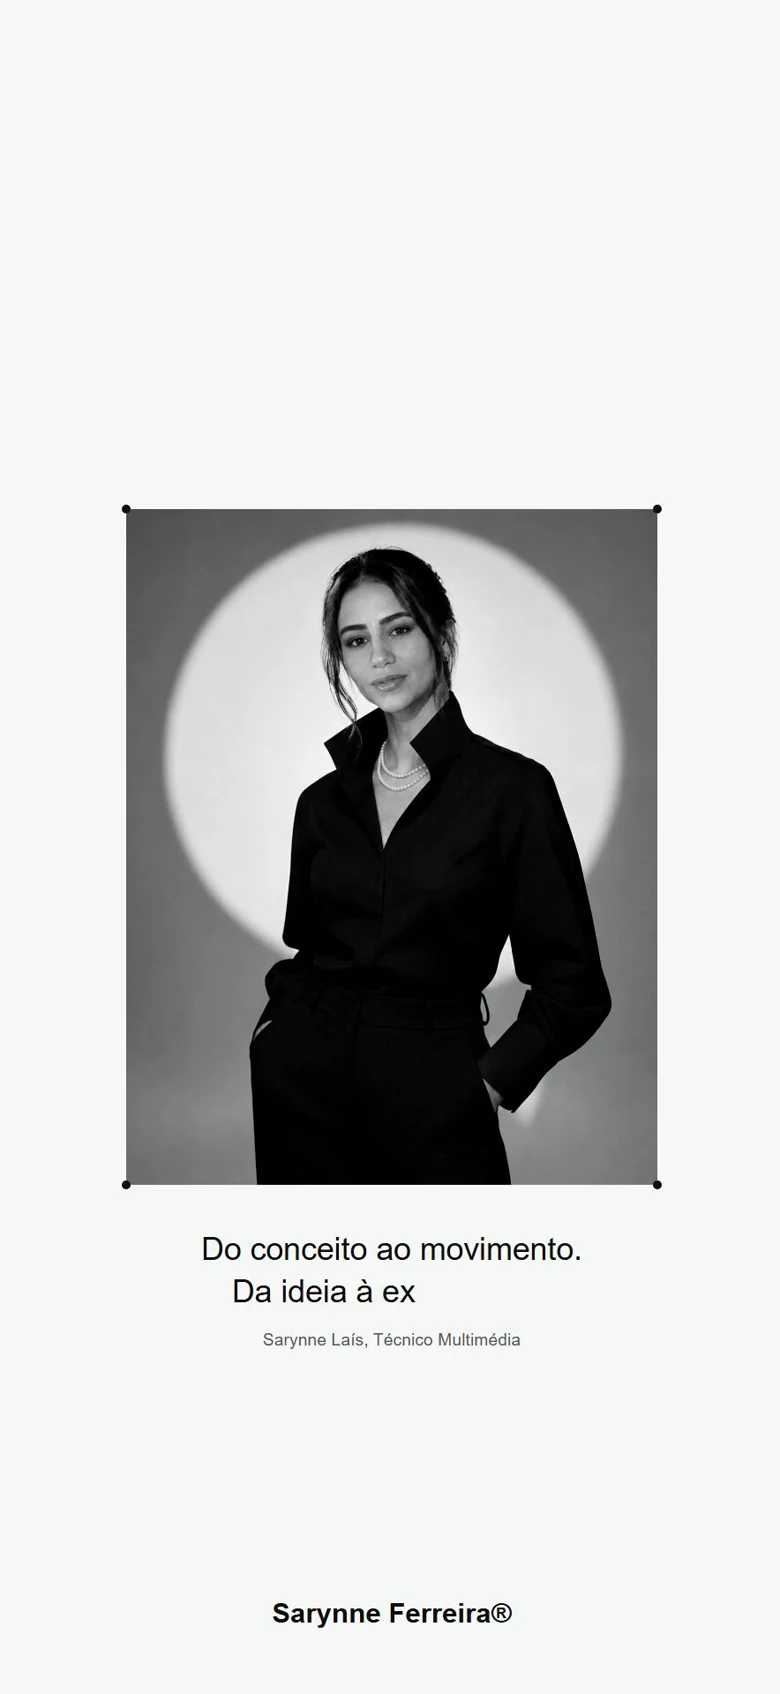
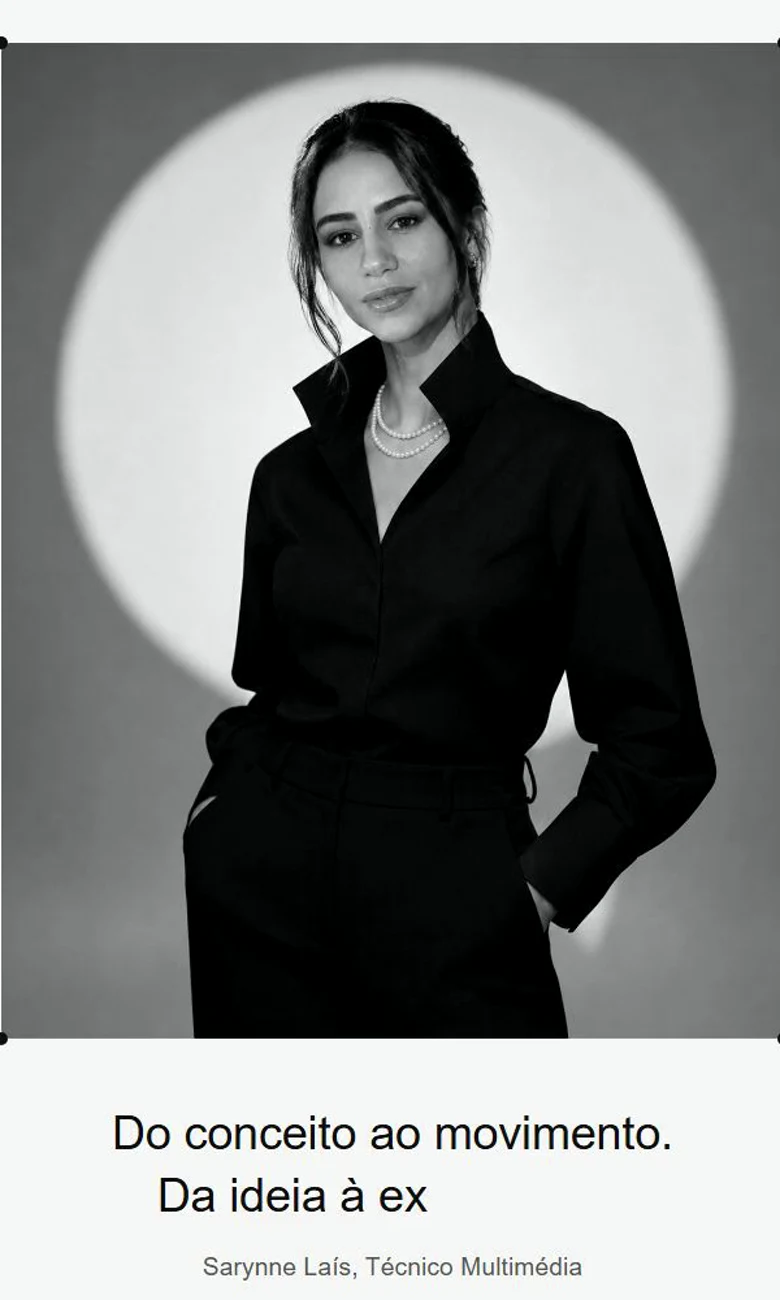
Frase dentro do baloico, Benessere fora e o reel recortado
🔴 O BALOICO volta a altura ORIGINAL, sem corte no topo. Andei a cortar
450px, depois 300, depois 200, a tentar que nao flutuasse — era o remedio
errado para a doenca certa. O que o fazia flutuar nao era a imagem, era a
FOLGA laranja por cima dela. As cordas chegam a primeira linha do ficheiro
(medido), por isso com a folga a zero sobem ate ao cimo da seccao sozinhas.
O unico corte que fica sao 66px EM BAIXO (1536 -> 1470), para tirar o
laranja chapado que sobrava debaixo da sombra. A sombra fica: vive entre os
83% e os 95% da altura (medido linha a linha contra a linha 0) e e o que
assenta o baloico no espaco.

A FRASE DO RAMS passou para DENTRO do baloico, no vao entre as cordas.
Mede-se que la cabe: acima das letras — que so comecam aos 49,5% da altura
— a imagem e laranja chapado, com 2% de tinta, que sao as duas cordas. A
frase fica dos 16% aos 36,4%, por isso nao lhes toca.
No telemovel sai de cima da imagem: a 390px a imagem tem 218px de altura e
a frase ia dos 19,8% aos 58,2%, entrando pelas letras adentro. Encolhe-la
ate caber dava 13px, que nao se le — por baixo le-se.

O texto da madeira acompanhou o novo enquadramento: face da frente em
69,39%-76,39%, centro a 72,89%. Medido na pagina depois: 72,89% exacto.

BENESSERE FORA. Ela pediu o Ondelle fora e continuou a ve-lo — era o
Benessere, que e o MESMO MOLDE, com a mesma fotografia do ADN. Saem os tres
da familia (Ondelle, Ondelle PT, Benessere), medidos em 175,7 / 175,7 /
[…]

diff --git a/src/components/Entrada.module.css b/src/components/Entrada.module.css
@@ -72,31 +72,38 @@
    * Cortar em cima sobe a prancha no quadro E as cordas continuam a chegar
    * à aresta — cortar em BAIXO teria feito o contrário, descê-la.
    *
-   * 🔴 O corte foi descendo a pedido dela: 450px → 300 → 200. A prancha
-   * passou de 48,3%–62,2% (450) para 54,5%–66,7% (300) e agora para
-   * 57,9%–69,2% (200). Sem corte nenhum estaria em 63,4%–73,2%, mas aí as
-   * cordas acabavam a meio do laranja e ele lia-se a flutuar — que foi o
-   * defeito de origem.
+   * 🔴 SEM CORTE NENHUM, e isso é o que estava certo desde o princípio.
+   *
+   * Andei a cortar o topo (450px → 300 → 200) a tentar que o baloiço não
+   * flutuasse. Era o remédio errado para a doença certa: o que o fazia
+   * flutuar não era a imagem, era a FOLGA laranja que estava por cima dela.
+   * As cordas chegam à primeira linha do ficheiro — medido — por isso basta
+   * a folga a zero (ver `.banda`) e elas sobem até ao cimo da secção
+   * sozinhas, com o baloiço na altura original.
+   *
+   * O único corte que ficou são 66px EM BAIXO (1536 → 1470), para tirar o
+   * laranja chapado que sobrava debaixo da sombra. A sombra em si fica: ela
+   * vive entre os 83% e os 95% da altura (medido comparando cada linha com
+   * a linha 0) e é o que assenta o baloiço no espaço.
    */
-  aspect-ratio: 2752 / 1336;
+  aspect-ratio: 2752 / 1470;
 }
 
 /*
  * O texto vai escrito na FACE LATERAL da prancha, a pedido dela — como a
  * referência o tem na viga.
  *
- * Medido na imagem JÁ CORTADA (2752×1336), linha a linha.
+ * Medido na imagem inteira (2752×1536), linha a linha.
  *
- * 🔴 A conta não pode ser «a prancha inteira»: ela vai de 57,9% a 69,2%,
- * mas a metade de cima é a face SUPERIOR, vista em perspetiva e meio tapada
- * pelas letras — ali a madeira só ocupa 17% a 55% da largura. Foi por isso
- * que o texto apareceu «fora da madeira»: eu centrava-o na prancha toda e
- * ele caía na aresta.
+ * 🔴 A conta não pode ser «a prancha inteira»: a metade de cima dela é a
+ * face SUPERIOR, vista em perspetiva e meio tapada pelas letras — ali a
+ * madeira só ocupa uma fração da largura. Foi por isso que o texto apareceu
+ * «fora da madeira»: eu centrava-o na prancha toda e ele caía na aresta.
  *
- * A face da FRENTE é onde a madeira fica larga e constante: y 864..925, ou
- * seja 64,7% a 69,2%, com 70% a 76% da largura. O centro dela está a 66,5%
- * — e é aí que o texto tem de cair. A caixa tem 4,2% de altura (a face tem
- * 4,5%), com o topo a 64,4%.
+ * A face da FRENTE é onde a madeira fica larga e constante: y 1020..1123.
+ * Na imagem com a base cortada (1470 de altura) isso dá 69,39% a 76,39%,
+ * com o centro a 72,89% — e é aí que o texto tem de cair. A caixa tem 4,2%
+ * de altura, com o topo a 70,79%.
  *
  * 🔴 A tinta é ESCURA e não branca. Medido o contraste contra a madeira
  * (média RGB 196,144,105): branco dá 2,79:1 e falha; a tinta da casa dá
@@ -105,7 +112,7 @@
  */
 .viga {
   position: absolute;
-  top: 64.4%;
+  top: 70.79%;
   left: 11%;
   width: 78%;
   height: 4.2%;
@@ -141,16 +148,38 @@
   flex-shrink: 0;
 }
 
+/*
+ * 🔴 O `padding-top` era clamp(1.25rem, 3vw, 2.5rem) e, com a frase do Rams
+ * a sair daqui para dentro do baloiço, ficava um rasgo de laranja vazio
+ * entre a imagem e «Onde o design encontra a tecnologia». Ela mandou subir
+ * o texto — daí o topo a zero e a sombra do baloiço a servir de respiração.
+ */
 .corpo {
-  padding-top: clamp(1.25rem, 3vw, 2.5rem);
+  padding-top: 0;
   padding-bottom: clamp(2.5rem, 6vw, 4.5rem);
   text-align: center;
 }
 
 /* A frase do Dieter Rams, em branco sobre o laranja — o que ela pediu. */
+/*
+ * A frase vive DENTRO do baloiço, no vão vazio entre as cordas.
+ *
+ * Os 16% saem da medição: acima das letras — que só começam aos 47,4% da
+ * altura — a imagem é laranja chapado, com 2% de tinta, que são as duas
+ * cordas. A caixa fica com 46rem de medida para não lhes ir por cima.
+ *
+ * ⚠ `pointer-events: none` porque isto está em cima da imagem: sem isso,
+ * selecionar texto aqui apanhava o baloiço por baixo.
+ */
 .citacao {
-  margin: 0 auto;
-  max-width: 46rem;
+  position: absolute;
+  top: 16%;
+  left: 50%;
+  transform: translateX(-50%);
+  width: min(46rem, 62%);
+  margin: 0;
+  text-align: center;
+  pointer-events: none;
 }
 
 .citacao p {
@@ -248,6 +277,16 @@
  * disciplinas saem de lá e passam a ler-se por baixo do baloiço, antes da
  * citação. Escondê-las perdia conteúdo; encolhê-las mais tornava-as ilegíveis.
  */
+/*
+ * Num telemóvel a prancha fica fina de mais para levar texto legível, e o
+ * vão livre do baloiço fica curto de mais para a frase. Os dois saem de
+ * cima da imagem e passam para debaixo dela.
+ *
+ * 🔴 Medido: a 390px a imagem tem 218px de altura e as letras do PORTFOLIO
+ * começam aos 47,4% (103px). A frase, em cima da imagem, ia dos 19,8% aos
+ * 58,2% — entrava pelas letras adentro. Encolhê-la até caber dava 13px, que
+ * não se lê. Por baixo lê-se.
+ */
 @media (max-width: 48rem) {
   .viga {
     position: static;
@@ -257,5 +296,15 @@
     font-size: 0.6rem;
     padding: clamp(0.9rem, 3vw, 1.25rem) var(--gutter) 0;
     white-space: normal;
+  }
+
+  .citacao {
+    position: static;
+    width: auto;
+    max-width: 30rem;
+    margin: clamp(1.25rem, 5vw, 2rem) auto 0;
+    padding-inline: var(--gutter);
+    transform: none;
+    pointer-events: auto;
   }
 }

diff --git a/src/components/PulseArco.tsx b/src/components/PulseArco.tsx
@@ -132,8 +132,12 @@ const ecransPulse: Cartao[] = (pulse.gallery ?? []).map((g) => ({
  *
  * Em vez disso vai um fotograma com imagem, tirado do próprio vídeo aos
  * 9,0s — o ponto onde a peça tem mais tinta e menos branco de toda a sua
- * duração (varri-a de meio em meio segundo). Passou de 99,6% para 70,8% de
- * branco, com o desvio a subir de 5,5 para 77,8.
+ * duração (varri-a de meio em meio segundo).
+ *
+ * ⚠ O quadro inteiro desse segundo ainda era 70,8% branco e ela voltou a
+ * apanhá-lo. A peça passa-se sobre branco, por isso nenhum fotograma dela
+ * serve inteiro: o que serve é o RECORTE na foto, que localizei medindo
+ * onde está a tinta (y 577..1426, x 239..840 do original).
  *
  * O cartaz original fica onde estava; isto é um ficheiro à parte.
  */
@@ -154,12 +158,12 @@ const SITES: [string, string][] = [
   ["eco-sem-fio", "Eco Sem Fio — internet segura"],
   ["lode", "LODÊ — atelier de cabelo"],
   ["sofia-sales", "Sofia Sales Clinic — estética"],
-  ["benessere", "Benessere — clínica de estética"],
   /*
-   * 🔴 O «ondelle» saiu a pedido dela, e com ele a versão portuguesa já
-   * tinha saído antes — os dois eram o mesmo desenho, e o cartão ficava
-   * quase todo claro (medido: 175,7 de brilho e 18,9% de branco puro) no
-   * meio de ecrãs escuros.
+   * 🔴 Saíram TRÊS cartões desta família, e é a mesma família de propósito:
+   * o Ondelle, a versão portuguesa dele e o BENESSERE são o mesmo molde,
+   * com a mesma fotografia do ADN. Ela pediu o Ondelle fora e continuou a
+   * vê-lo — era o Benessere, que lhe é igual aos olhos. Medidos: 175,7 /
+   * 175,7 / 176,2 de brilho, todos claros no meio de ecrãs escuros.
    */
   /*
    * 🔴 O «ondelle-pt» saiu. Era o mesmo desenho do Ondelle (a versão

diff --git a/src/components/Entrada.tsx b/src/components/Entrada.tsx
@@ -50,19 +50,21 @@ export default function Entrada() {
             escondido (não há classe `sr-only` neste projeto; pu-la uma vez e
             o título apareceu em letras brancas sobre o laranja).
           */}
-          <h2 style={{ position: "absolute", left: "-9999px" }}>
-            Portefólio — o trabalho
-          </h2>
+          {/*
+            A frase do Rams passou para DENTRO do baloiço, no vão vazio entre
+            as cordas — pedido dela. Mede-se que lá cabe: acima das letras
+            (que só começam aos 47,4% da altura) a imagem é laranja chapado,
+            com 2% de tinta, que são as duas cordas.
+          */}
+          <blockquote className={styles.citacao}>
+            <p>&ldquo;Good design is as little design as possible.&rdquo;</p>
+            <cite>— Dieter Rams</cite>
+          </blockquote>
+
         </div>
       </div>
 
       <div className={`container ${styles.corpo}`}>
-        {/* A frase que ela pediu, em branco sobre o laranja, por baixo do baloiço. */}
-        <blockquote className={styles.citacao}>
-          <p>&ldquo;Good design is as little design as possible.&rdquo;</p>
-          <cite>— Dieter Rams</cite>
-        </blockquote>
-
         <p className={styles.frase}>Onde o design encontra a tecnologia.</p>
 
         <p className={styles.sub}>
